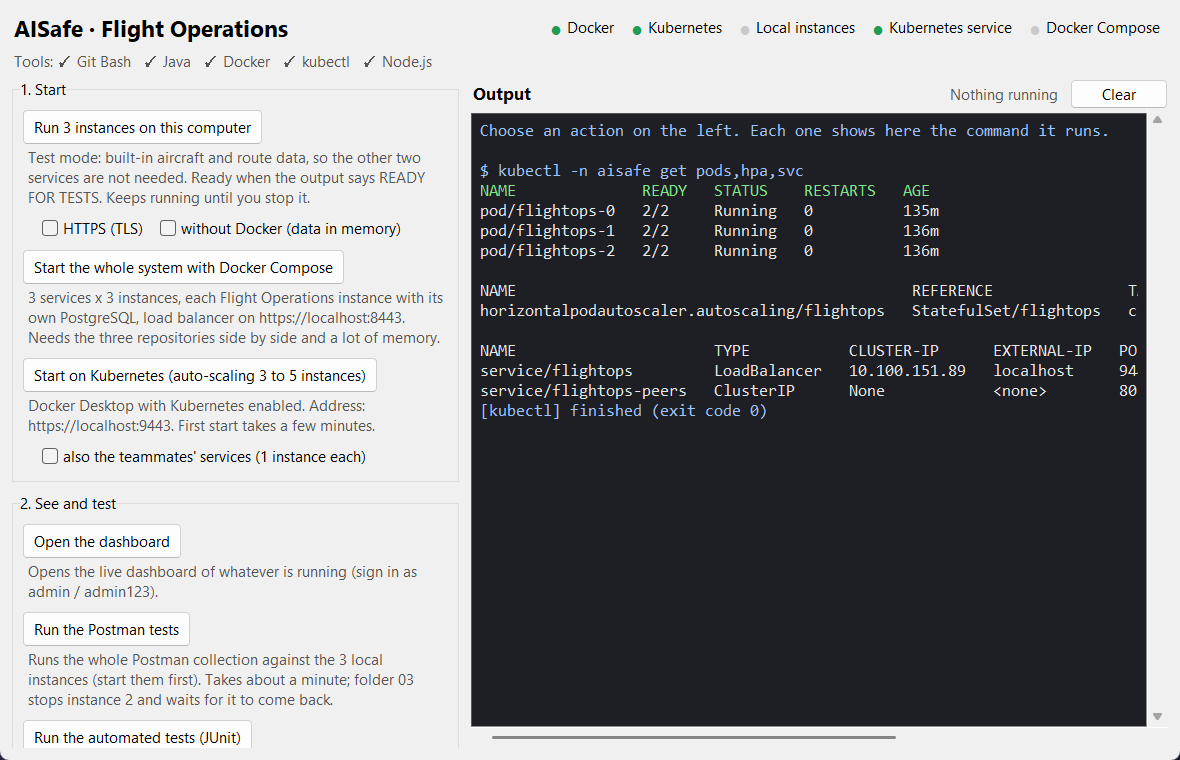
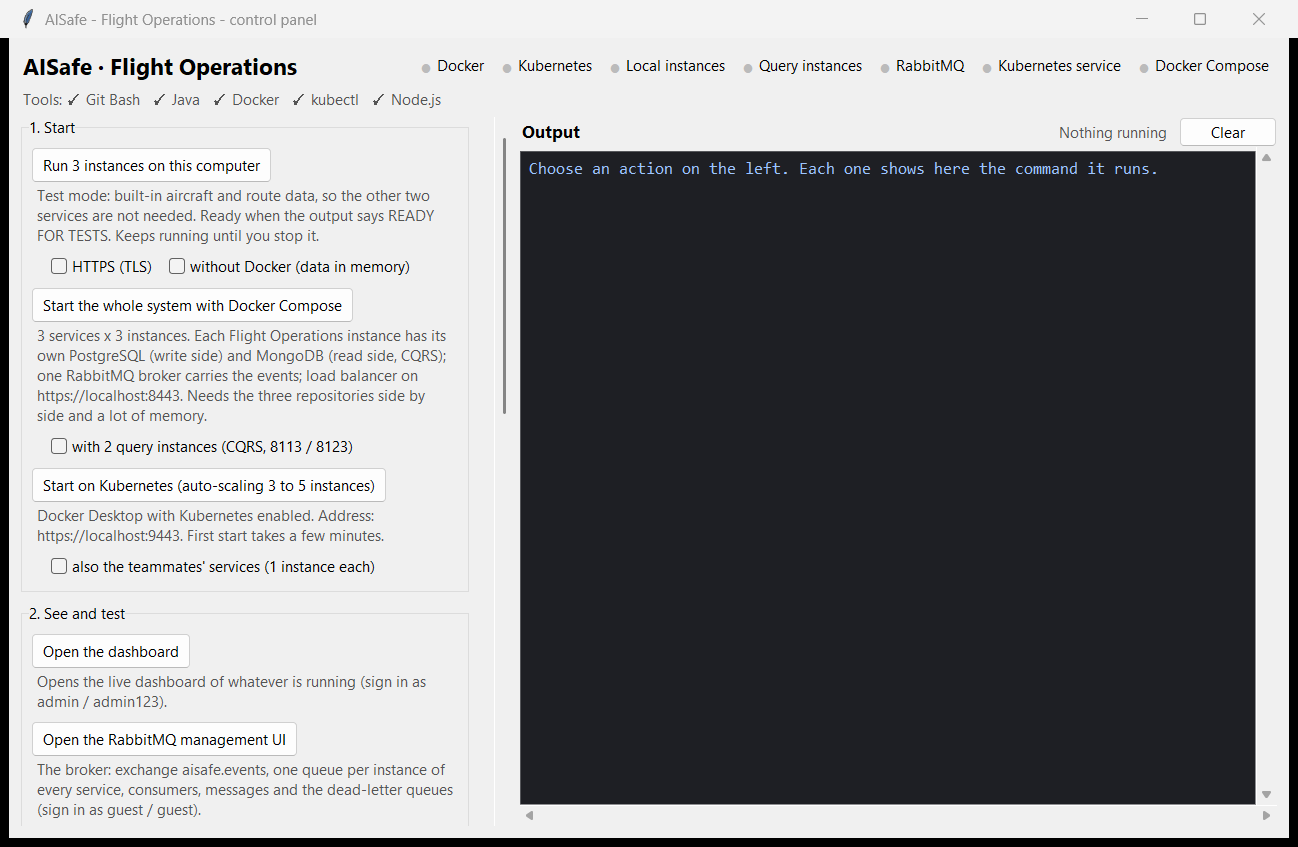
Control panel for Assignment 2
Query instances, the RabbitMQ management UI, the whole-system failure tests, the read model against write side load test and a way to pause Kubernetes.

Changed region(s): [[0.0, 0.0, 1.0, 1.0], [0.3966, 0.4539, 0.9153, 0.575], [0.7627, 0.2421, 0.7932, 0.3329]]

diff --git a/launcher.py b/launcher.py
@@ -24,6 +24,8 @@ from tkinter import messagebox, ttk
 ROOT = os.path.dirname(os.path.abspath(__file__))
 WINDOWS = os.name == 'nt'
 LOCAL_PORTS = (8083, 8093, 8103)
+QUERY_PORT = 8113                       # first query instance (CQRS with separate processes)
+RABBITMQ_UI = 'http://localhost:15672'  # management UI of the broker (guest / guest in development)
 ANSI = re.compile(r'\x1b\[[0-9;]*[A-Za-z]')   # terminal colour codes
 NEWMAN_ASSERTIONS = re.compile(r'assertions\D+(\d+)\D+(\d+)')   # summary line: executed, failed
 
@@ -70,7 +72,7 @@ class Launcher:
         self.output = queue.Queue()
         self.processes = {}   # task name -> Popen
         window.title('AISafe - Flight Operations - control panel')
-        window.geometry('1180x760')
+        window.geometry('1280x800')
         window.minsize(980, 620)
 
         style = ttk.Style()
@@ -84,7 +86,8 @@ class Launcher:
         self.lights = {}
         lights = ttk.Frame(top)
         lights.pack(side='right')
-        for name in ('Docker', 'Kubernetes', 'Local instances', 'Kubernetes service', 'Docker Compose'):
+        for name in ('Docker', 'Kubernetes', 'Local instances', 'Query instances', 'RabbitMQ', 'Kubernetes service',
+                     'Docker Compose'):
             frame = ttk.Frame(lights)
             frame.pack(side='left', padx=6)
             dot = tk.Label(frame, text='●', fg='#bbbbbb', font=('Segoe UI', 12))
@@ -131,6 +134,7 @@ class Launcher:
         self.https = tk.BooleanVar(value=False)
         self.no_docker = tk.BooleanVar(value=False)
         self.with_teammates = tk.BooleanVar(value=False)
+        self.queries = tk.BooleanVar(value=False)
 
         start = self.section(inner, '1. Start')
         self.action(start, 'Run 3 instances on this computer',
@@ -143,9 +147,12 @@ class Launcher:
         ttk.Checkbutton(options, text='without Docker (data in memory)', variable=self.no_docker).pack(side='left', padx=12)
 
         self.action(start, 'Start the whole system with Docker Compose',
-                    '3 services x 3 instances, each Flight Operations instance with its own PostgreSQL, load balancer '
-                    'on https://localhost:8443. Needs the three repositories side by side and a lot of memory.',
-                    lambda: ['docker', 'compose', 'up', '--build', '-d'], task='docker compose')
+                    '3 services x 3 instances. Each Flight Operations instance has its own PostgreSQL (write side) '
+                    'and MongoDB (read side, CQRS); one RabbitMQ broker carries the events; load balancer on '
+                    'https://localhost:8443. Needs the three repositories side by side and a lot of memory.',
+                    self.cmd_compose, task='docker compose')
+        ttk.Checkbutton(start, text='with 2 query instances (CQRS, 8113 / 8123)',
+                        variable=self.queries).pack(anchor='w', padx=18, pady=(0, 6))
         self.action(start, 'Start on Kubernetes (auto-scaling 3 to 5 instances)',
                     'Docker Desktop with Kubernetes enabled. Address: https://localhost:9443. First start takes a few '
                     'minutes.', self.cmd_kubernetes, task='kubernetes')
@@ -156,16 +163,33 @@ class Launcher:
         self.action(see, 'Open the dashboard',
                     'Opens the live dashboard of whatever is running (sign in as admin / admin123).',
                     None, handler=self.open_dashboard)
+        self.action(see, 'Open the RabbitMQ management UI',
+                    'The broker: exchange aisafe.events, one queue per instance of every service, consumers, '
+                    'messages and the dead-letter queues (sign in as guest / guest).',
+                    None, handler=self.open_rabbitmq)
         self.action(see, 'Run the Postman tests',
-                    'Runs the whole Postman collection against the 3 local instances (start them first). '
-                    'Takes about a minute; folder 03 stops instance 2 and waits for it to come back.',
+                    'Runs the whole Postman collection against instances 1-3 on 8083 / 8093 / 8103 (local or Docker '
+                    'Compose; start them first). Tick HTTPS above when they run with TLS, as Docker Compose always '
+                    'does. Takes one to two minutes. With local instances, folder 03 stops instance 2 and waits for '
+                    'it to come back.',
                     self.cmd_postman, task='postman')
+        self.action(see, 'Run the failure tests of the whole system',
+                    'Docker Compose only (HTTPS). Stops and starts containers between the phases: instance 2, then '
+                    'its backup, one instance of each other service, the broker. About 3 minutes; everything is '
+                    'started again at the end.',
+                    lambda: [BASH, 'scripts/test-failures.sh'], task='failure tests')
         self.action(see, 'Run the automated tests (JUnit)',
                     'All the JUnit tests, a few minutes. No Docker needed. Stop the local instances first: they '
                     'lock the build.', self.cmd_unit_tests, task='unit tests')
         self.action(see, 'Generate load on Kubernetes (2 minutes)',
                     'k6 with 30 users against https://localhost:9443. Watch the dashboard: the auto-scaler adds '
                     'instances when CPU passes 70 %. Uses a lot of memory.', self.cmd_load, task='load')
+        self.action(see, 'Load test: read model against write side (about 8 minutes)',
+                    'k6 in its own Docker project (3 instances, 1 CPU each), first with the read model, then the same '
+                    'requests with X-Read-Side: write-side (the Assignment 1 path). Compare the http_reqs lines. '
+                    'Stop the other setups first: it needs memory.',
+                    lambda: [BASH, '-c', './loadtest/run.sh 3 && READ_SIDE=write-side ./loadtest/run.sh 3'],
+                    task='load test')
         self.action(see, 'Show the Kubernetes pods',
                     'Pods, auto-scaler and services in the namespace aisafe.',
                     lambda: ['kubectl', '-n', 'aisafe', 'get', 'pods,hpa,svc'], task='kubectl')
@@ -175,8 +199,14 @@ class Launcher:
                     'Stops the 3 instances started on this computer (their databases keep their data).',
                     None, handler=self.stop_local)
         self.action(stop, 'Stop Docker Compose',
-                    'Stops and removes the containers; the databases keep their data (named volumes).',
-                    lambda: ['docker', 'compose', 'down'], task='docker compose down')
+                    'Stops and removes the containers (query instances included); the databases keep their data '
+                    '(named volumes).',
+                    lambda: ['docker', 'compose', '--profile', 'queries', 'down'], task='docker compose down')
+        self.action(stop, 'Pause Kubernetes (keeps the data)',
+                    'Docker Desktop starts the Kubernetes pods again by itself after a restart. This stops them '
+                    '(0 pods) and frees several GB; "Start on Kubernetes" brings them back.',
+                    lambda: ['kubectl', '-n', 'aisafe', 'scale', 'statefulset', '--all', '--replicas=0'],
+                    task='kubernetes pause')
         self.action(stop, 'Remove everything from Kubernetes',
                     'Deletes the namespace aisafe, including its databases.',
                     lambda: [BASH, 'k8s/deploy.sh', '--down'], task='kubernetes down', confirm=True)
@@ -221,7 +251,14 @@ class Launcher:
             args.append('--tls')
         if self.no_docker.get():
             args.append('--h2')
+        if self.queries.get() and not self.no_docker.get():   # query instances need their read databases
+            args += ['--queries', '2']
         return args
+
+    def cmd_compose(self):
+        if self.queries.get():
+            return ['docker', 'compose', '--profile', 'queries', 'up', '--build', '-d']
+        return ['docker', 'compose', 'up', '--build', '-d']
 
     def cmd_kubernetes(self):
         if self.with_teammates.get():
@@ -281,12 +318,14 @@ class Launcher:
             self.output.put((line, 'ready' if 'READY' in line else ('error' if 'ERROR' in line else None)))
         code = process.wait()
         if task == 'postman' and assertions:
-            # newman also exits with 1 when requests can't connect: folder 03 stops instance 2 on purpose
+            # newman also exits with 1 when requests can't connect: folder 03 stops instance 2 on purpose, and
+            # folder 17 looks for a query instance on 8113
             executed, failed = assertions
             if failed == 0:
                 self.output.put((f'\nPostman: all {executed} checks passed.\n'
                                  f'(Any "ECONNREFUSED ...:8093" above is instance 2 being stopped on purpose by '
-                                 f'folder 03.)\n', 'ready'))
+                                 f'folder 03; "ECONNREFUSED ...:{QUERY_PORT}" is folder 17 finding no query '
+                                 f'instance, so it skips itself.)\n', 'ready'))
             else:
                 self.output.put((f'\nPostman: {failed} of {executed} checks FAILED - see the list above.\n', 'error'))
         else:
@@ -350,6 +389,14 @@ class Launcher:
                 return
         messagebox.showinfo('Nothing running', 'Start the system first (section 1).')
 
+    def open_rabbitmq(self):
+        if answers(RABBITMQ_UI):
+            self.say(f'\nOpening the RabbitMQ management UI: {RABBITMQ_UI} (sign in as guest / guest)\n', 'command')
+            webbrowser.open(RABBITMQ_UI)
+        else:
+            messagebox.showinfo('Broker not running', 'Start the system first (section 1): the broker runs with the '
+                                'local instances and with Docker Compose.')
+
     # ------------------------------------------------------------------ status
 
     def check_tools(self):
@@ -371,6 +418,9 @@ class Launcher:
                 'Docker': quiet_ok(['docker', 'info']),
                 'Kubernetes': quiet_ok(['kubectl', 'get', 'nodes', '--request-timeout=4s']),
                 'Local instances': any(answers(f'{s}://localhost:8083/actuator/health') for s in ('http', 'https')),
+                'Query instances': any(answers(f'{s}://localhost:{QUERY_PORT}/actuator/health')
+                                       for s in ('http', 'https')),
+                'RabbitMQ': answers(RABBITMQ_UI),
                 'Kubernetes service': answers('https://localhost:9443/actuator/health'),
                 'Docker Compose': answers('https://localhost:8443/actuator/health'),
             }

diff --git a/docs/running.md b/docs/running.md
@@ -11,8 +11,10 @@ whole AISafe system) and on Kubernetes with auto-scaling. Ports, instances and s
 **Windows:** double-click `Launcher.cmd`. **Mac / Linux:** `python3 launcher.py`. (Needs Python 3; the panel says
 which other tools it finds: Git Bash, Java, Docker, kubectl, Node.js.)
 
-A window with buttons to start the system (on this computer, with Docker Compose, or on Kubernetes), open the
-dashboard, run the Postman and JUnit tests, generate load, and stop everything. Each button explains what it does
+A window with buttons to start the system (on this computer, with Docker Compose, or on Kubernetes; optionally with
+the CQRS query instances), open the dashboard and the RabbitMQ management UI, run the Postman, JUnit and
+whole-system failure tests, compare the read model with the write side under load, generate load on Kubernetes, and
+stop or pause everything. Each button explains what it does
 and shows the exact command it runs, so the commands below can also be learned from it. The lights at the top show
 what is running.
 
